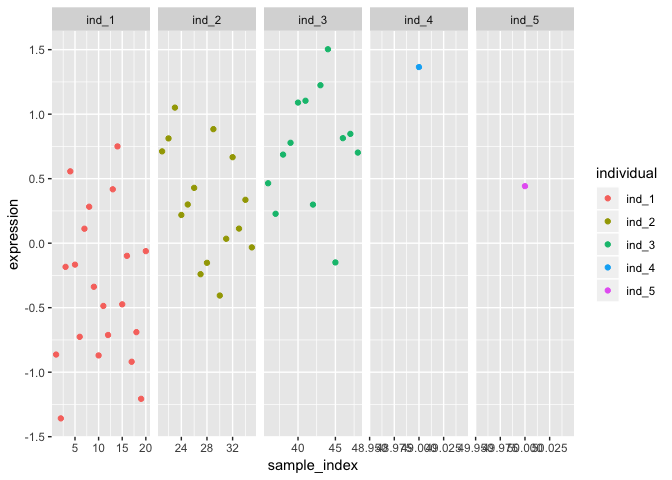
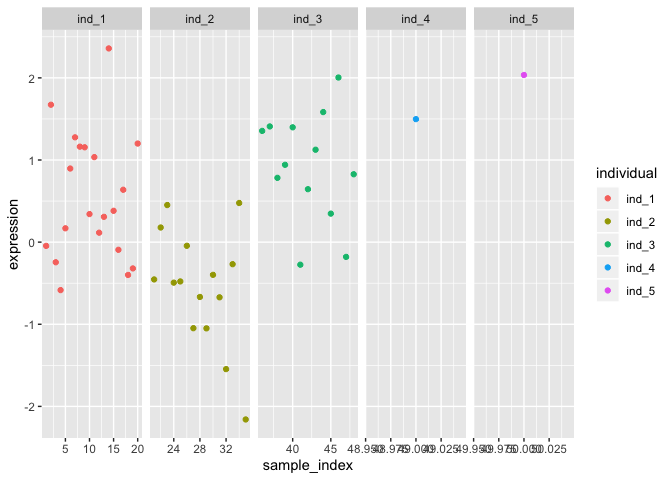
Update random effects tutorial

diff --git a/QTL_analysis/simulating_random_effects.md b/QTL_analysis/simulating_random_effects.md
@@ -7,13 +7,10 @@ output:
 
 
 
+## Load the necessary packages
 
 ```r
 library("lme4")
-```
-
-```
-## Warning: package 'lme4' was built under R version 3.5.2
 ```
 
 ```
@@ -45,15 +42,32 @@ library("dplyr")
 library("ggplot2")
 ```
 
-Simulate a dataset with 5 individuals, each one containing three replicates.
+# Application to a balanced dataset
 
-Specify desired between-individual variance and measurement noise variance
+## Simulate data
+
+Simulate a dataset with 5 individuals, each one containing 10 replicates.
+
+Specify tesired desired between-individual variance and measurement noise variance. In this case the variance between individuals equal to the variance within individuals.
+
 
 ```r
 var_individual = 0.5
-var_noise = 0.25
+var_noise = 0.5
+set.seed(34)
 ```
 
+We can confirm this by calculating the theoretical (population) variance explained by between-individual differences:
+
+```r
+var_individual/(var_individual + var_noise)
+```
+
+```
+## [1] 0.5
+```
+
+Now, let's simulate the data:
 
 ```r
 #Specify the number of replicates per individual
@@ -61,11 +75,11 @@ replicate_counts = c(10,10,10,10,10)
 
 #Sample individual means from the normal distribution with variance var_individual
 individual_means = rnorm(5, mean = 0, sd = sqrt(var_individual))
-ind_means = dplyr::data_frame(individual_mean = individual_means, 
+ind_means = dplyr::tibble(individual_mean = individual_means, 
                               individual = paste0("ind_", c(1:5)))
 
 #Add replicates and sample measurement noise
-data_balanced = dplyr::data_frame(individual = paste0("ind_", rep(c(1,2,3,4,5), times = replicate_counts))) %>%
+data_balanced = dplyr::tibble(individual = paste0("ind_", rep(c(1,2,3,4,5), times = replicate_counts))) %>%
   dplyr::left_join(ind_means, by = "individual") %>%
   #Sample measurement noise from the normal distribution with variance var_noise
   dplyr::mutate(noise = rnorm(length(individual), mean = 0, sd = sqrt(var_noise))) %>%
@@ -76,40 +90,33 @@ data_balanced
 
 ```
 ## # A tibble: 50 x 5
-##    individual individual_mean   noise expression sample_index
-##    <chr>                <dbl>   <dbl>      <dbl>        <int>
-##  1 ind_1               -0.140  0.135    -0.00568            1
-##  2 ind_1               -0.140 -0.538    -0.678              2
-##  3 ind_1               -0.140 -0.0242   -0.165              3
-##  4 ind_1               -0.140  0.381     0.241              4
-##  5 ind_1               -0.140  1.60      1.46               5
-##  6 ind_1               -0.140  0.345     0.204              6
-##  7 ind_1               -0.140  0.661     0.520              7
-##  8 ind_1               -0.140 -0.412    -0.552              8
-##  9 ind_1               -0.140 -0.611    -0.752              9
-## 10 ind_1               -0.140 -0.293    -0.434             10
-## # ... with 40 more rows
+##    individual individual_mean    noise expression sample_index
+##    <chr>                <dbl>    <dbl>      <dbl>        <int>
+##  1 ind_1              -0.0982 -0.322       -0.420            1
+##  2 ind_1              -0.0982  0.474        0.376            2
+##  3 ind_1              -0.0982 -0.600       -0.699            3
+##  4 ind_1              -0.0982  0.754        0.656            4
+##  5 ind_1              -0.0982 -0.00528     -0.103            5
+##  6 ind_1              -0.0982 -0.285       -0.383            6
+##  7 ind_1              -0.0982  0.508        0.410            7
+##  8 ind_1              -0.0982 -0.127       -0.226            8
+##  9 ind_1              -0.0982  0.740        0.642            9
+## 10 ind_1              -0.0982  0.284        0.186           10
+## # … with 40 more rows
 ```
 
-Theoretical (population) variance explained by individual
 
-```r
-var_individual/(var_individual + var_noise)
-```
-
-```
-## [1] 0.6666667
-```
-
-Simulated sample variance explained by individual
+Simulated sample variance explained by between-individual differences. Note that this is not exactly same as the theortical estimate above due to sampling noise. 
 
 ```r
 var(individual_means)/(var(individual_means) + var(data_balanced$noise))
 ```
 
 ```
-## [1] 0.4936102
+## [1] 0.374504
 ```
+
+## Visualise data
 
 Make a plot of the raw data
 
@@ -121,7 +128,7 @@ ggplot(data_balanced, aes(x = sample_index, y = expression, color = individual))
 
 ![](simulating_random_effects_files/figure-html/unnamed-chunk-6-1.png)<!-- -->
 
-Specify a helper function that extract % variance explained from the linear mixed model
+Specify a helper function that extracts the proportion of variance explained by different paramters of the linear mixed model
 
 ```r
 #' Calculate the proportion of variance explaned by different factors in a lme4 model
@@ -135,7 +142,7 @@ varianceExplained <- function(lmer_model){
 }
 ```
 
-Fit a linear mixed model to the dataset estimate variance explained
+Fit a linear mixed model to the dataset to estimate the porportion of variance explained by differences between individuals. Note that this model assumes that the underlying "true" mean expression level for each individual comes from the same distribution. 
 
 ```r
 model = lmer(expression ~ (1|individual), data_balanced)
@@ -144,10 +151,10 @@ varianceExplained(model)
 
 ```
 ##   type individual  Residual
-## 1 gene  0.3898343 0.6101657
+## 1 gene  0.3589928 0.6410072
 ```
 
-To the same with a standard fixed effect linear model
+Perform the same analysis with a standard fixed effect linear model. The standard fixed effect linear model considers each individual completely seprately, without taking other individuals into account.
 
 ```r
 model_fixed = lm(expression ~ individual, data_balanced)
@@ -156,23 +163,29 @@ summary(model_fixed)$adj.r.squared
 ```
 
 ```
-## [1] 0.3427749
+## [1] 0.3137426
 ```
 
-Extract model coefficients for random effects
+Extract model coefficients (estimated mean expression levels for each individual) from the linear mixed model:
 
 ```r
 coefs = coef(model)$individual
 coefs_df = dplyr::data_frame(individual = rownames(coefs), coef = coefs[,1], type = "lme4")
 ```
 
-Estmate individual means
+```
+## Warning: `data_frame()` is deprecated, use `tibble()`.
+## This warning is displayed once per session.
+```
+
+Estmate individual means for the linear model (these are just the means calculated for each individual separately):
 
 ```r
 ind_means = dplyr::group_by(data_balanced, individual) %>% 
   dplyr::summarize(coef = mean(expression), type = "lm")
 ```
 
+Visualise the raw data together with the estimated means from the linear model and linear mixed model:
 
 ```r
 ggplot(data_balanced, aes(x = sample_index, y = expression, color = individual)) + 
@@ -184,9 +197,12 @@ ggplot(data_balanced, aes(x = sample_index, y = expression, color = individual))
 
 ![](simulating_random_effects_files/figure-html/unnamed-chunk-12-1.png)<!-- -->
 
+What you should see is that although the estimates from the linear model (lm) and linear mixed model (lme4) are similar, they are not exactly the same. This is because we have simulated a relatively large measurement noise (var_noise) which makes the linear mixed model to "trust" the estimates within each individual less and forces the estimates from each individual to be close to the global mean across individuals.
 
 
-# Application on an unbalanced dataset
+# Application to an unbalanced dataset
+
+Now, let's consider an unbalanced example where the number of samples collected from each individual is very different. For example, here we have a situation where three individuals have very many replicates (13-20) and two individuals have only two replicates:
 
 
 ```r
@@ -210,19 +226,19 @@ data_unbalanced
 
 ```
 ## # A tibble: 50 x 5
-##    individual individual_mean   noise expression sample_index
-##    <chr>                <dbl>   <dbl>      <dbl>        <int>
-##  1 ind_1               -0.312 -0.551      -0.863            1
-##  2 ind_1               -0.312 -1.05       -1.36             2
-##  3 ind_1               -0.312  0.128      -0.184            3
-##  4 ind_1               -0.312  0.869       0.557            4
-##  5 ind_1               -0.312  0.146      -0.166            5
-##  6 ind_1               -0.312 -0.414      -0.726            6
-##  7 ind_1               -0.312  0.424       0.112            7
-##  8 ind_1               -0.312  0.595       0.282            8
-##  9 ind_1               -0.312 -0.0260     -0.338            9
-## 10 ind_1               -0.312 -0.558      -0.870           10
-## # ... with 40 more rows
+##    individual individual_mean  noise expression sample_index
+##    <chr>                <dbl>  <dbl>      <dbl>        <int>
+##  1 ind_1                0.681 -0.726    -0.0457            1
+##  2 ind_1                0.681  0.992     1.67              2
+##  3 ind_1                0.681 -0.926    -0.245             3
+##  4 ind_1                0.681 -1.26     -0.584             4
+##  5 ind_1                0.681 -0.512     0.168             5
+##  6 ind_1                0.681  0.216     0.896             6
+##  7 ind_1                0.681  0.596     1.28              7
+##  8 ind_1                0.681  0.481     1.16              8
+##  9 ind_1                0.681  0.474     1.15              9
+## 10 ind_1                0.681 -0.339     0.342            10
+## # … with 40 more rows
 ```
 
 Visualise the data
@@ -235,17 +251,17 @@ ggplot(data_unbalanced, aes(x = sample_index, y = expression, color = individual
 
 ![](simulating_random_effects_files/figure-html/unnamed-chunk-14-1.png)<!-- -->
 
-Simulated variance explained
+Estimate simulated variance explained
 
 ```r
 var(individual_means)/(var(individual_means) + var(data_unbalanced$noise))
 ```
 
 ```
-## [1] 0.397906
+## [1] 0.4608552
 ```
 
-
+With linear mixed model
 
 ```r
 model = lmer(expression ~ (1|individual), data_unbalanced)
@@ -254,9 +270,10 @@ varianceExplained(model)
 
 ```
 ##   type individual  Residual
-## 1 gene  0.5307627 0.4692373
+## 1 gene  0.5775757 0.4224243
 ```
 
+With linear model
 
 ```r
 model_fixed = lm(expression ~ individual, data_unbalanced)
@@ -265,10 +282,10 @@ summary(model_fixed)$adj.r.squared
 ```
 
 ```
-## [1] 0.4520339
+## [1] 0.4234042
 ```
 
-Extract model coefficients for random effects
+Extract model (estimated mean expression levels for each individual) from the linear mixed model:
 
 ```r
 coefs = coef(model)$individual
@@ -276,13 +293,14 @@ coefs_df = dplyr::data_frame(individual = rownames(coefs), coef = coefs[,1], typ
 model_df = dplyr::left_join(data_unbalanced, coefs_df, by = "individual")
 ```
 
-Estmate individual means
+Estmate individual means for the linear model (these are just the means calculated for each individual separately):
 
 ```r
 ind_means = dplyr::group_by(data_unbalanced, individual) %>% 
   dplyr::summarize(coef = mean(expression), type = "lm")
 ```
 
+Visualise the data together with estimated means. 
 
 ```r
 ggplot(data_unbalanced, aes(x = sample_index, y = expression, color = individual)) + 
@@ -293,4 +311,9 @@ ggplot(data_unbalanced, aes(x = sample_index, y = expression, color = individual
 ```
 
 ![](simulating_random_effects_files/figure-html/unnamed-chunk-20-1.png)<!-- -->
+
+From here, you should be able to see that for individuals 1-3 that have many data points both linear model and linear mixed model produce very similar estimates for mean expression. However, for individuals 4 and 5 that each have only one data point, the only estimate that a linear model can provide for the mean is the value of the one data point itself. In contrast, because the linear mixed model assumes that all individuals come the from same global distribution with shared mean and standard deviation, it "pulls" the estimates for individuals 4 and 5 closer to the means of the other individuals, because it recognises that there is less data to support such large mean values for these two individuals.
+
+## Exercise 1
+You should now try to change the `var_noise` parameter at the top of this document from 0.5 to 0.05, thus reducing the simulated measurement noise by 10-fold. What do you see? Are the estimates from the linear mixed model and linear model now agreeing more with each other? 
 
